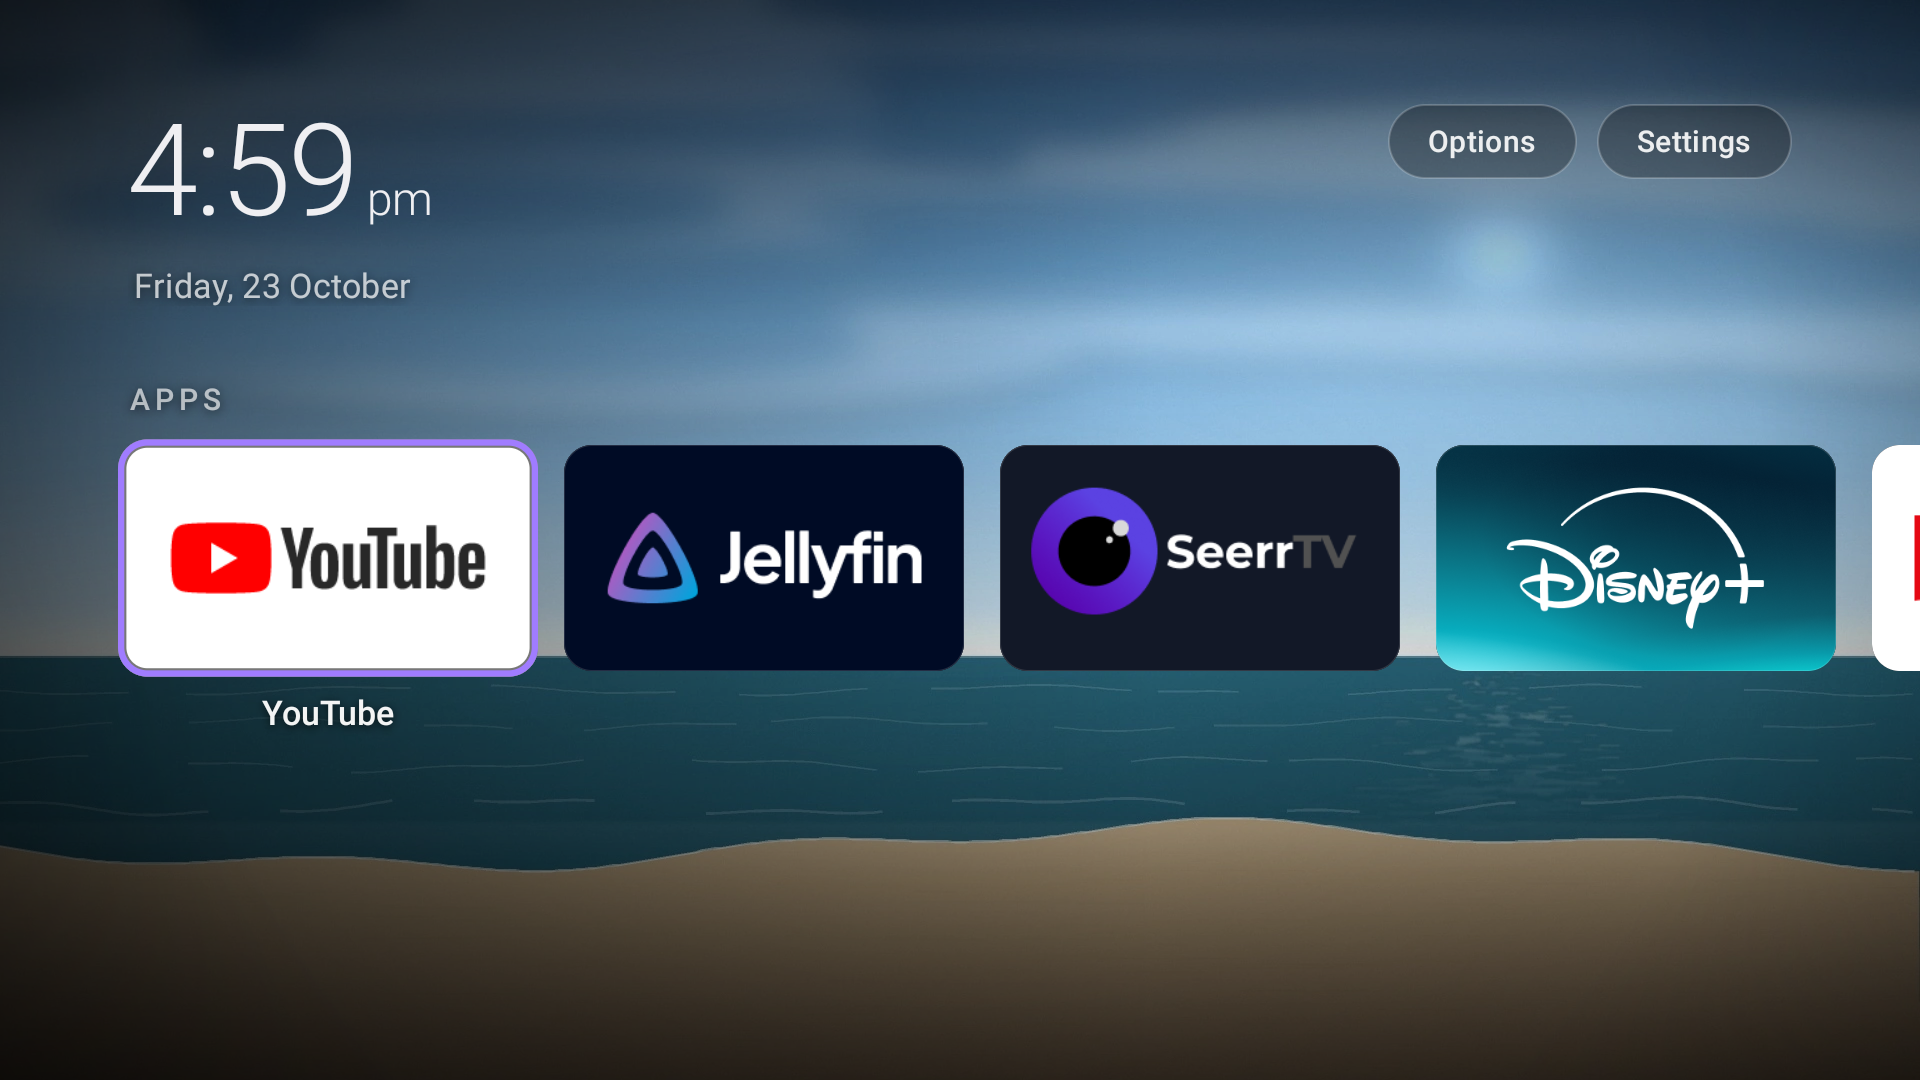
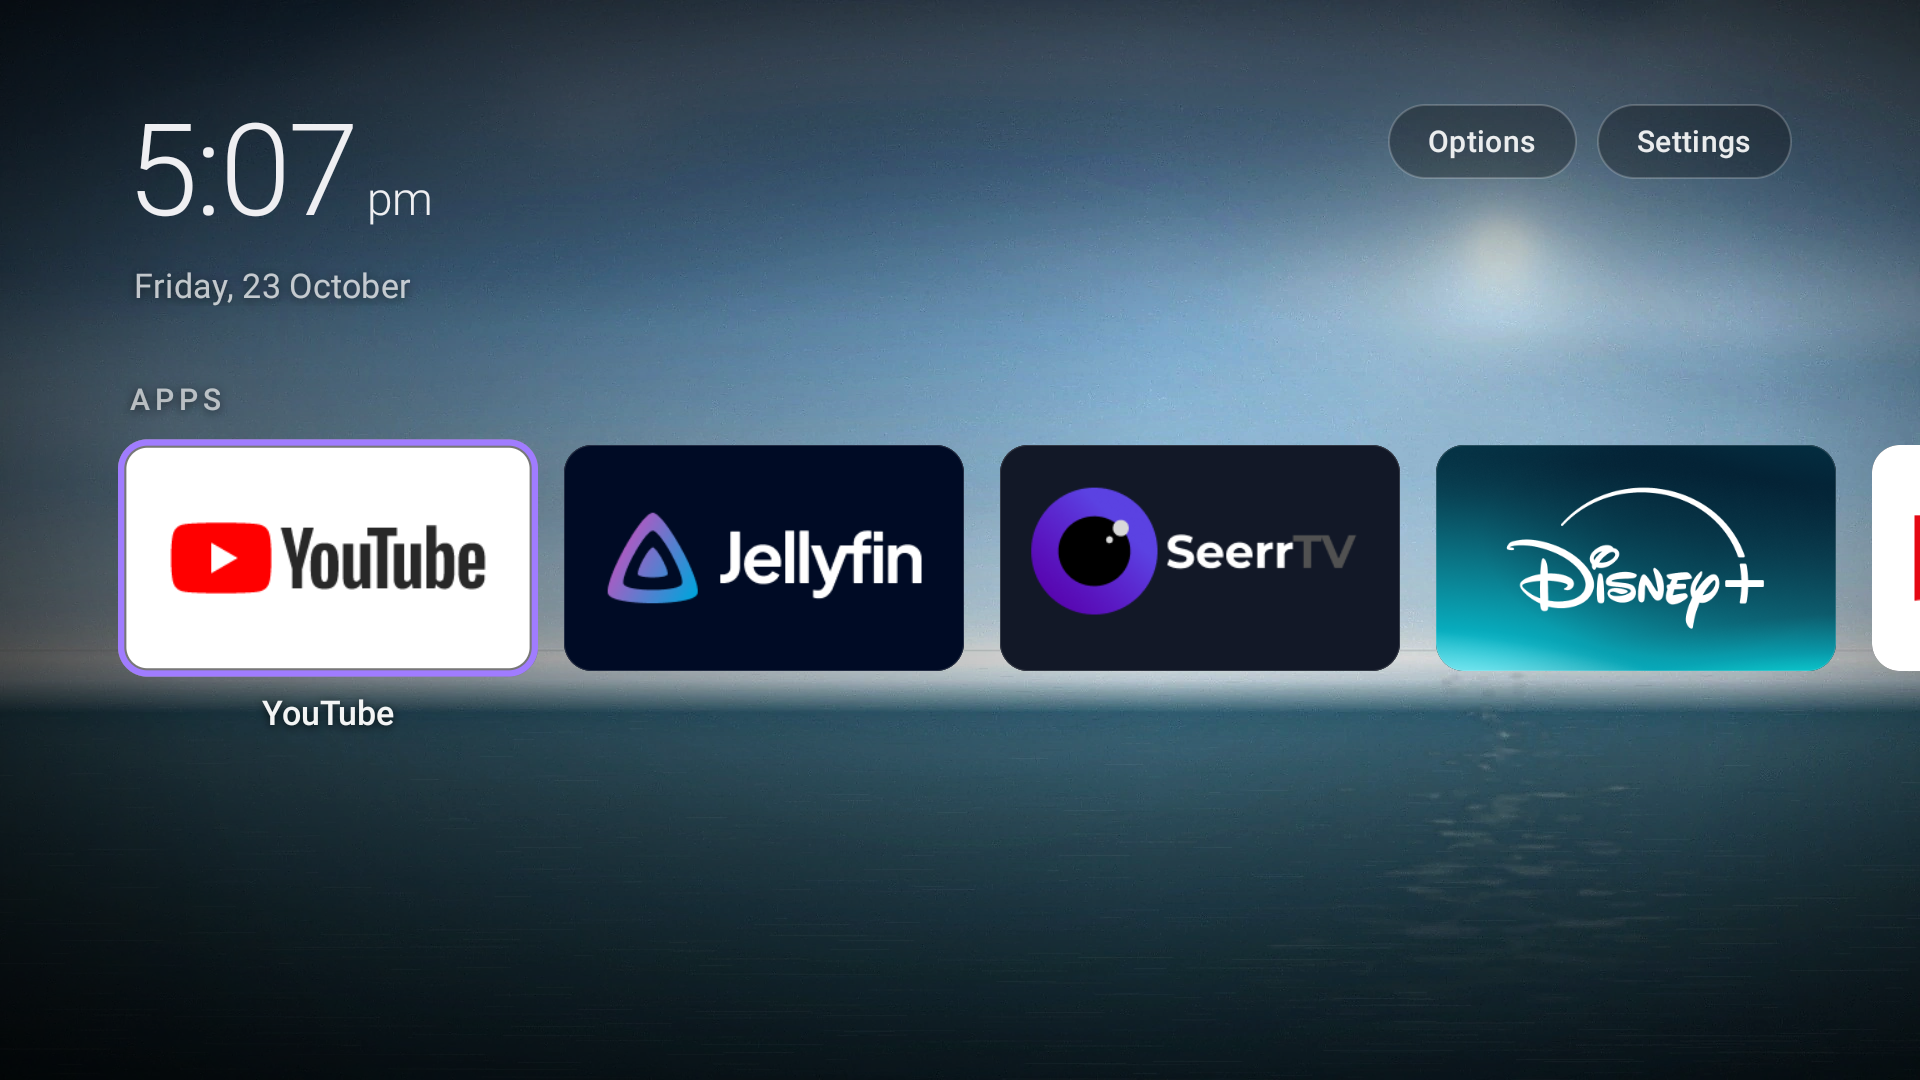
launcher: refine the original daylight ocean (1.9)

diff --git a/launcher/src/tv/dumbtv/home/Config.java b/launcher/src/tv/dumbtv/home/Config.java
@@ -76,7 +76,7 @@ final class Config {
     static final Choice BACKGROUND = new Choice("background", "Background", "auto",
             new String[] {"auto", "day", "aurora", "dunes", "coast", "black", "graphite", "midnight",
                     "image", "adaptive", "adaptive-tint"},
-            new String[] {"Auto by time", "Daylight beach", "Aurora", "Dunes at dusk",
+            new String[] {"Auto by time", "Daylight", "Aurora", "Dunes at dusk",
                     "Moonlit coast", "Black", "Graphite", "Midnight", "Image file",
                     "Adaptive solid", "Adaptive wallpaper tint"});
     static final Choice DIM = new Choice("dim", "Background dim", "0",

diff --git a/FORK.md b/FORK.md
@@ -21,7 +21,7 @@ Fire OS.
 - **A new look.** Full-bleed ambient scenes, a layered scrim, a 64 sp light clock,
   larger 16:9 cards, a softer multi-cue focus state, and a redesigned Options
   screen.
-- **Four built-in scenes.** Daylight beach, Aurora, Dunes at dusk and Moonlit
+- **Four built-in scenes.** Daylight, Aurora, Dunes at dusk and Moonlit
   coast are packed into the APK (1920×1080 WebP). `Auto` follows the clock:
   daylight 09:00–17:00, dunes 05:00–09:00 and 17:00–20:00, moonlit coast
   20:00–00:00, aurora 00:00–05:00. `Next background` steps through them. No
@@ -41,9 +41,9 @@ Fire OS.
 
 ![Options](docs/screenshots/options.png)
 
-| Daylight beach | Aurora | Dunes at dusk | Moonlit coast |
+| Daylight | Aurora | Dunes at dusk | Moonlit coast |
 |---|---|---|---|
-| ![Daylight beach](docs/screenshots/day.jpg) | ![Aurora](docs/screenshots/aurora.jpg) | ![Dunes at dusk](docs/screenshots/dunes.jpg) | ![Moonlit coast](docs/screenshots/coast.jpg) |
+| ![Daylight](docs/screenshots/day.jpg) | ![Aurora](docs/screenshots/aurora.jpg) | ![Dunes at dusk](docs/screenshots/dunes.jpg) | ![Moonlit coast](docs/screenshots/coast.jpg) |
 
 The screenshots show the real app row of the test TV; they contain no server
 addresses, account details, IPs or setup tokens.
@@ -59,7 +59,7 @@ addresses, account details, IPs or setup tokens.
 
 ## Install
 
-The download URL points at this fork. Until `launcher-v1.8` is published here,
+The download URL points at this fork. Until `launcher-v1.9` is published here,
 build and install from source:
 
 ```sh
@@ -82,4 +82,4 @@ build-tools. No Gradle.
 - Not affiliated with or endorsed by upstream.
 - License: MIT (see [LICENSE](LICENSE)); the four scenes are original artwork
   generated for this fork.
-- Version: 1.8. See `launcher/version.env`; changes are in [CHANGELOG.md](CHANGELOG.md).
+- Version: 1.9. See `launcher/version.env`; changes are in [CHANGELOG.md](CHANGELOG.md).

diff --git a/launcher/README.md b/launcher/README.md
@@ -6,7 +6,7 @@ A home screen for Fire TV that does one job: show your apps and your HDMI inputs
   <img src="../docs/assets/screens/home.png" alt="dumbtv home: a clock, an Apps row and an Inputs row" width="720">
 </p>
 
-- **About 640 KB including four scenes.** Plain Java and Android views. No
+- **About 710 KB including four scenes.** Plain Java and Android views. No
   AndroidX, Kotlin, Compose, Play Services or any other library.
 - **No network.** There is no `INTERNET` permission, so Android will not let it
   open a connection.
@@ -23,7 +23,7 @@ A home screen for Fire TV that does one job: show your apps and your HDMI inputs
 This fork tracks upstream launcher 1.2 — grid layout, the built-in HDMI input
 screen, adaptive backgrounds and the upstream Fire OS 8 HOME fix — and adds:
 
-- **Four built-in scenes:** Daylight beach, Aurora, Dunes at dusk and Moonlit
+- **Four built-in scenes:** Daylight, Aurora, Dunes at dusk and Moonlit
   coast, packed into the APK at 1920×1080. `Auto` follows the clock: daylight
   09:00–17:00, dunes 05:00–09:00 and 17:00–20:00, moonlit coast 20:00–00:00,
   aurora 00:00–05:00. `Next background` steps through them. No download or storage
@@ -80,7 +80,7 @@ Undo: `./launcher/install.sh --undo` gives HOME back to Amazon's launcher.
 | Clock | system, 24-hour, 12-hour |
 | Inputs row | shown, hidden |
 | Open inputs with | Automatic, the TV's app, dumbtv home (see below) |
-| Background | auto, daylight beach, aurora, dunes, coast, black, graphite, midnight, image, adaptive, adaptive tint |
+| Background | auto, daylight, aurora, dunes, coast, black, graphite, midnight, image, adaptive, adaptive tint |
 | Background dim, wallpaper rotation | for scenes and images |
 
 Below them: Next background, which apps and inputs appear on the home screen, a

diff --git a/CHANGELOG.md b/CHANGELOG.md
@@ -3,6 +3,18 @@
 Changes in this fork relative to upstream dumbtv home. Upstream baseline:
 [dumbtv home 1.1](https://github.com/humblemuzzu/dumbtv).
 
+## 1.9 — 2026-10-23
+
+**Back to the day-home2 ocean, refined.**
+
+- Restored the open-ocean composition from the original daylight scene instead of
+  replacing it.
+- Lifted the exposure and reduced the vignette so it no longer reads as dusk.
+- Local contrast, a defined sun, a cleaner horizon and fine wave texture give the
+  same scene more clarity without changing what it depicts.
+- No new land, beach or mountain shapes.
+- APK: 709,502 bytes.
+
 ## 1.8 — 2026-10-23
 
 **Daylight beach, on the same horizon as the other scenes.**

diff --git a/README.md b/README.md
@@ -72,7 +72,7 @@ no root:
   stops Amazon's telemetry and automatic updates from reaching their servers.
   Everything else, including your streaming apps, works as before.
 - **Replaces the home screen** with [dumbtv home](launcher/README.md): your apps,
-  your inputs and a clock. About 640 KB including four scenes, open source, no internet access, no permissions.
+  your inputs and a clock. About 710 KB including four scenes, open source, no internet access, no permissions.
 - **Leaves your apps alone.** Nothing you watch is removed unless you name it.
 - **Can all be undone** with one command.
 

diff --git a/docs/FAQ.md b/docs/FAQ.md
@@ -106,7 +106,7 @@ the rest of the cleanup: the packages, the settings and the home screen.
 
 **Why its own launcher?**
 A home screen needs no internet access, no advertising ID and no permission to
-install apps. dumbtv home is about 640 KB including four scenes, open source and asks for no permissions on
+install apps. dumbtv home is about 710 KB including four scenes, open source and asks for no permissions on
 Fire OS 7 and 8. Check it yourself: `aapt2 dump permissions dumbtv-home.apk`
 lists three, each limited to Android 8.1 and earlier, which only Fire OS 6's Keeper
 uses.
